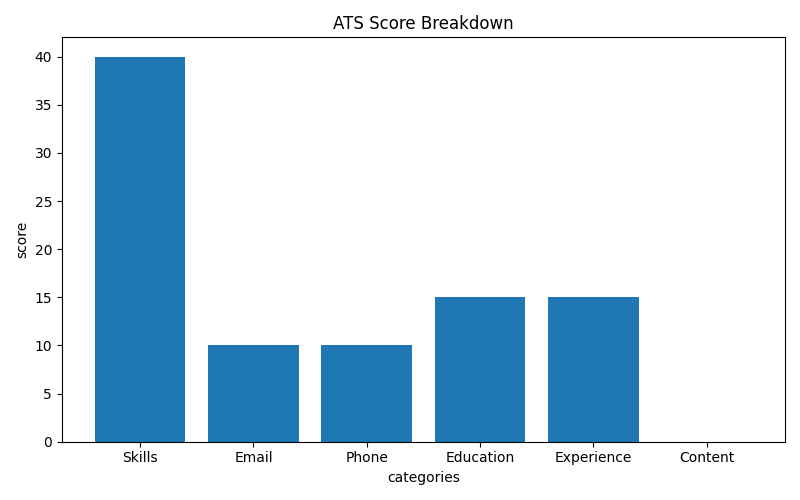
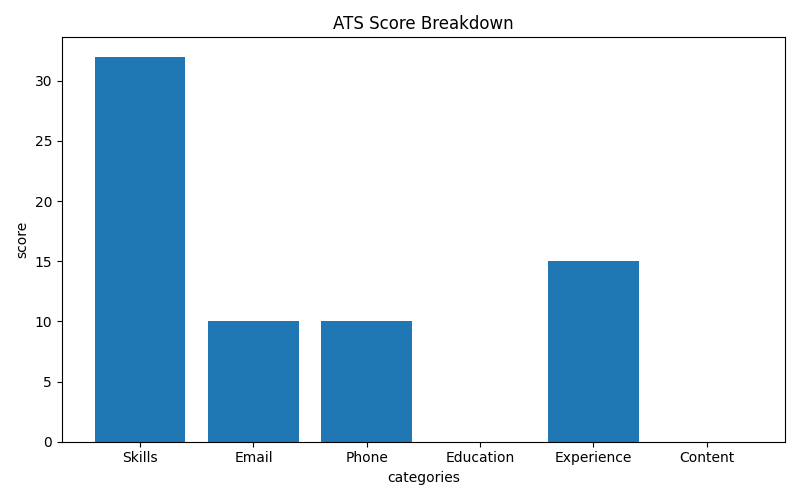
Improved UI with custom Bootstrap styling and analytics enhancement

diff --git a/static/style.css b/static/style.css
@@ -1,0 +1,84 @@
+body {
+
+    background-color: #f1f5f9;
+
+    font-family: Arial, sans-serif;
+
+}
+
+
+/* NAVBAR */
+
+.navbar {
+
+    background: linear-gradient(
+        90deg,
+        #0f172a,
+        #1e293b
+    ) !important;
+
+    
+
+}
+
+
+/* PAGE HEADINGS */
+
+h1 {
+
+    color: #0f172a;
+
+    font-weight: bold;
+
+}
+
+
+/* CARDS */
+
+.card {
+
+    border: none;
+
+    border-radius: 15px;
+
+    box-shadow: 0 4px 10px rgba(0,0,0,0.1);
+
+}
+
+
+/* BUTTONS */
+
+.btn-dark {
+
+    background-color: #2563eb;
+
+    border: none;
+
+}
+
+
+.btn-dark:hover {
+
+    background-color: #1d4ed8;
+
+}
+
+
+/* PROGRESS BAR */
+
+.progress {
+
+    height: 25px;
+
+    border-radius: 20px;
+
+}
+
+
+/* TABLES */
+
+table {
+
+    background-color: white;
+
+}

diff --git a/templates/analytics.html b/templates/analytics.html
@@ -49,7 +49,26 @@
         </div>
 
     </div>
+    <div class="col-md-6">
 
+    <div class="card shadow mb-4">
+
+        <div class="card-body">
+
+            <h4 class="text-center">
+                Resume Completeness
+            </h4>
+
+            <img
+                src="{{ url_for('static', filename='completeness_chart.png') }}"
+                class="img-fluid"
+            >
+
+        </div>
+
+    </div>
+
+</div>
 </div>
 
 <div class="card shadow">

diff --git a/templates/base.html b/templates/base.html
@@ -6,12 +6,15 @@
     <title>AI Resume Analyzer</title>
 
     <link href="https://cdn.jsdelivr.net/npm/bootstrap@5.3.0/dist/css/bootstrap.min.css" rel="stylesheet">
-
+    <link
+    rel="stylesheet"
+    href="{{ url_for('static', filename='style.css') }}"
+>
 </head>
 
 <body>
 
-    <nav class="navbar navbar-expand-lg navbar-dark bg-dark">
+    <nav class="navbar navbar-expand-lg navbar-dark bg-dark fixed-top shadow">
 
         <div class="container-fluid">
 

diff --git a/app.py b/app.py
@@ -223,6 +223,49 @@ def home():
             plt.tight_layout()
             plt.savefig('static/score_chart.png')
             plt.close()
+            completed = 0
+            missing = 0
+
+            checks = [
+
+                email != "not found",
+                phone != "not found",
+                bool(education_found),
+                bool(experience_found),
+                len(found_skills) >= 5
+
+            ]
+
+            for item in checks:
+
+                if item:
+
+                    completed += 1
+
+                else:
+
+                    missing += 1
+                labels = ['Completed', 'Missing']
+
+            values = [completed, missing]
+
+            plt.figure(figsize=(6,6))
+
+            plt.pie(
+
+                values,
+
+                labels=labels,
+
+                autopct='%1.1f%%'
+
+            )
+
+            plt.title('Resume Completeness')
+
+            plt.savefig('static/completeness_chart.png')
+
+            plt.close()
             resume_df=pd.DataFrame({'Category':score_labels,'Score':score_values})
             table_data=resume_df.to_dict(orient='records')
             resume_data = {